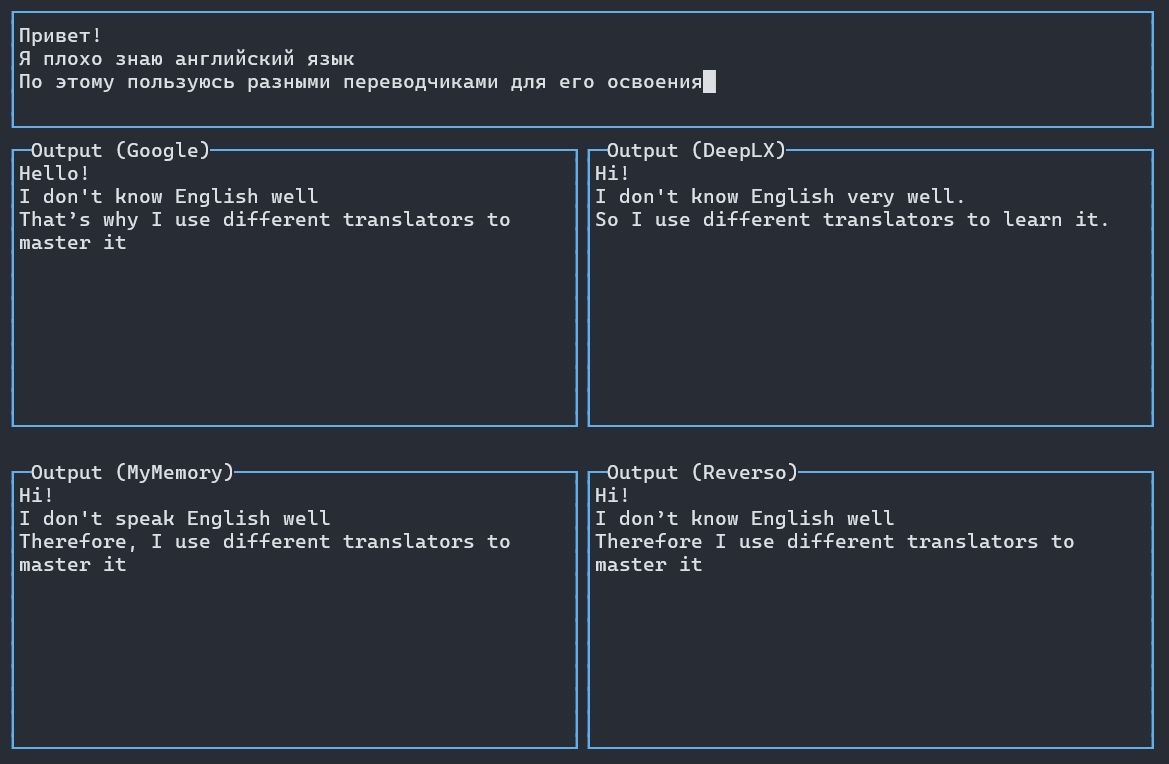
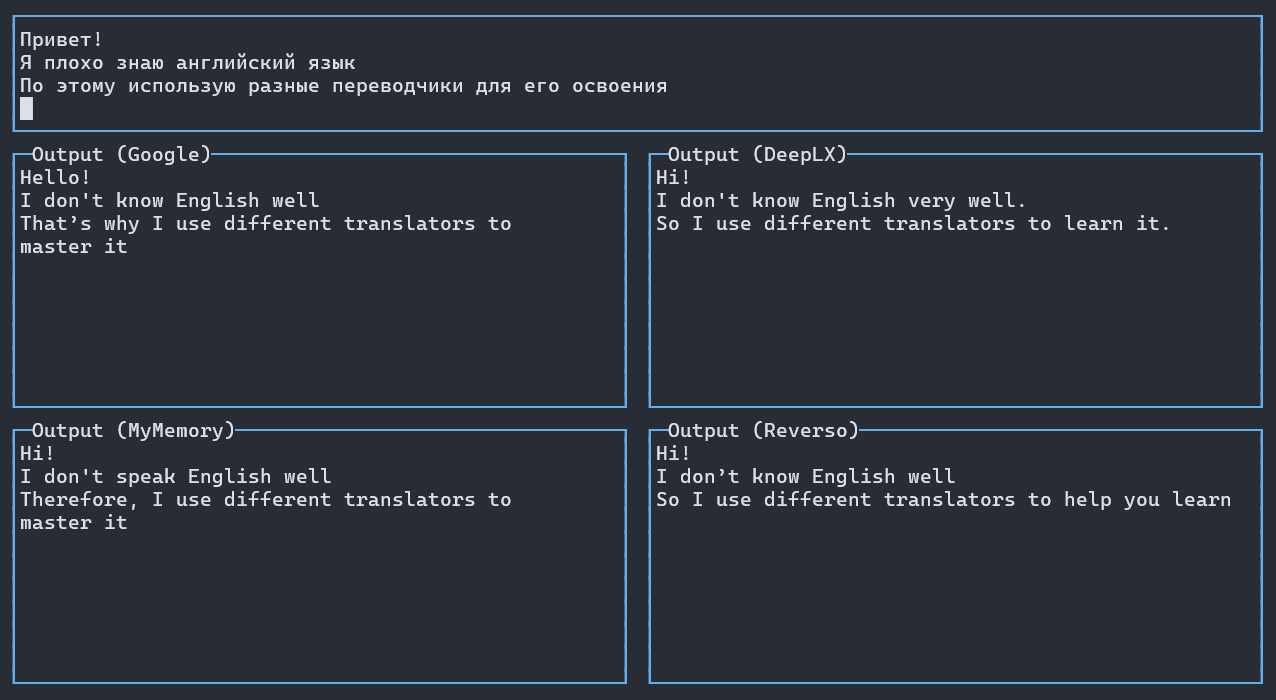
update color and example

Changed region(s): [[0.0, 0.0, 1.0, 0.99]]

diff --git a/README_RU.md b/README_RU.md
@@ -2,8 +2,14 @@
     multranslate
 </h1>
 
+<p align="center">
+<a href="https://www.npmjs.com/package/multranslate"><img title="GitHub License"src="https://img.shields.io/npm/v/multranslate?logo=npm&logoColor=red"></a>
+<a href="https://www.npmjs.com/package/multranslate"><img title="GitHub License"src="https://img.shields.io/github/languages/top/Lifailon/multranslate?logo=JavaScript&color=yellow"></a>
+<a href="https://github.com/Lifailon/multranslate/blob/rsa/LICENSE"><img title="GitHub License"src="https://img.shields.io/github/license/Lifailon/multranslate?logo=readme&logoColor=white&color=white"></a>
+</p>
+
 <h4 align="center">
-    <strong>Русский</strong> | <a href="README.md">English</a>
+ <a href="README.md">English</a> | <strong>Русский</strong>
 </h4>
 
 Кроссплатформенный терминальный пользовательский интерфейс на основе библиотеки [blessed](https://github.com/chjj/blessed) для одновременного перевода текста с использованием нескольких источников перевода. Все источники не требуют токена доступа или каких-либо настроек. Поддерживает **автоматическое определение исходного и целевого языка** между английским и русским.

diff --git a/README.md b/README.md
@@ -2,6 +2,12 @@
     multranslate
 </h1>
 
+<p align="center">
+<a href="https://www.npmjs.com/package/multranslate"><img title="GitHub License"src="https://img.shields.io/npm/v/multranslate?logo=npm&logoColor=red"></a>
+<a href="https://www.npmjs.com/package/multranslate"><img title="GitHub License"src="https://img.shields.io/github/languages/top/Lifailon/multranslate?logo=JavaScript&color=yellow"></a>
+<a href="https://github.com/Lifailon/multranslate/blob/rsa/LICENSE"><img title="GitHub License"src="https://img.shields.io/github/license/Lifailon/multranslate?logo=readme&logoColor=white&color=white"></a>
+</p>
+
 <h4 align="center">
     <strong>English</strong> | <a href="README_RU.md">Русский</a>
 </h4>
